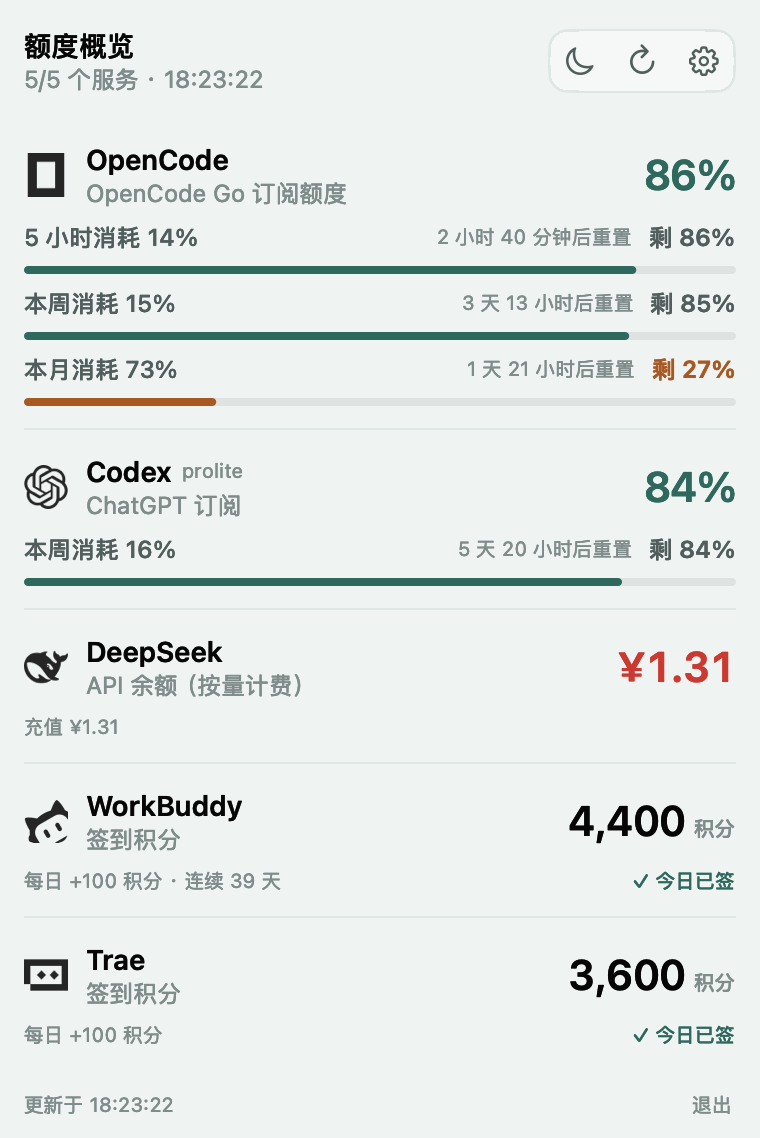
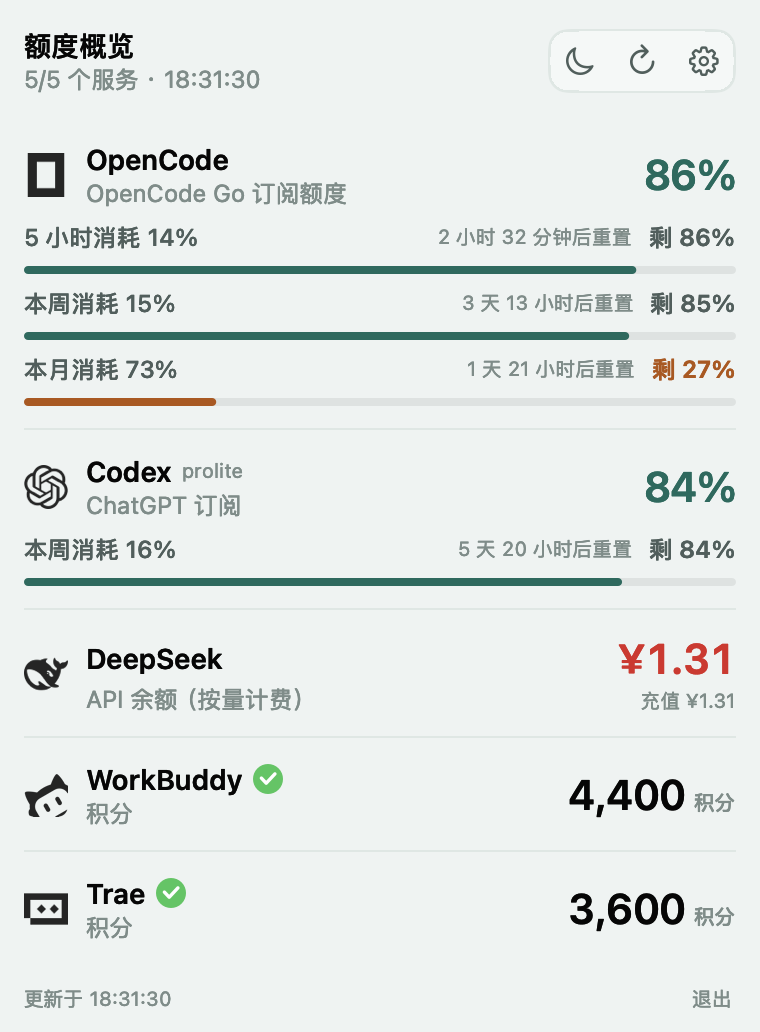
Balance credit card layout and compact check-in status

diff --git a/Sources/AgentQuotaBar/PopoverViewController.swift b/Sources/AgentQuotaBar/PopoverViewController.swift
@@ -414,6 +414,46 @@ final class QuotaPopoverViewController: NSViewController {
 
 // MARK: - 单行
 
+/// 实心绿色圆圈 + 白色对勾：用于 WorkBuddy / Trae 今日已签到。
+final class CheckinBadgeView: NSView {
+    override var intrinsicContentSize: NSSize { NSSize(width: 15, height: 15) }
+
+    override init(frame frameRect: NSRect) {
+        super.init(frame: frameRect)
+        setAccessibilityElement(true)
+        setAccessibilityRole(.image)
+        setAccessibilityLabel("今日已签到")
+    }
+
+    required init?(coder: NSCoder) {
+        fatalError("init(coder:) has not been implemented")
+    }
+
+    override func draw(_ dirtyRect: NSRect) {
+        let diameter = min(bounds.width, bounds.height)
+        let circle = NSBezierPath(ovalIn: NSRect(x: 0, y: (bounds.height - diameter) / 2,
+                                                 width: diameter, height: diameter))
+        // 签到标记用真正的绿色；Theme.success 是品牌青色，容易被看成蓝绿色。
+        NSColor.systemGreen.setFill()
+        circle.fill()
+
+        let check = NSBezierPath()
+        check.lineWidth = 1.7
+        check.lineCapStyle = .round
+        check.lineJoinStyle = .round
+        check.move(to: NSPoint(x: diameter * 0.28, y: diameter * 0.53))
+        check.line(to: NSPoint(x: diameter * 0.44, y: diameter * 0.36))
+        check.line(to: NSPoint(x: diameter * 0.73, y: diameter * 0.67))
+        NSColor.white.setStroke()
+        check.stroke()
+    }
+
+    override func viewDidChangeEffectiveAppearance() {
+        super.viewDidChangeEffectiveAppearance()
+        needsDisplay = true
+    }
+}
+
 final class ProviderRowView: NSView {
     let providerID: String
     private let provider: ProviderStatus
@@ -474,6 +514,19 @@ final class ProviderRowView: NSView {
         if let plan = provider.plan, !plan.isEmpty {
             nameRow.addArrangedSubview(label(plan, size: 10, color: Theme.tertiary))
         }
+        if provider.id == "trae" || provider.id == "workbuddy" {
+            if checkinDone {
+                nameRow.addArrangedSubview(CheckinBadgeView())
+            } else {
+                let checkin = NSButton(title: "签到", target: self, action: #selector(checkinTapped))
+                checkin.isBordered = false
+                checkin.bezelStyle = .inline
+                checkin.font = .systemFont(ofSize: 10.5, weight: .medium)
+                checkin.contentTintColor = Theme.accent
+                checkin.setAccessibilityLabel("签到 \(style.shortName)")
+                nameRow.addArrangedSubview(checkin)
+            }
+        }
         if provider.status == "warn" && isExhausted(provider) {
             nameRow.addArrangedSubview(label("已用尽", size: 10, weight: .medium, color: .systemRed))
         }
@@ -516,6 +569,17 @@ final class ProviderRowView: NSView {
         valueStack.addArrangedSubview(valueRow)
         if let captionText = valueCaption(provider, todaySpent: todaySpent), !captionText.isEmpty {
             let caption = label(captionText, size: 10, color: Theme.secondary)
+            caption.alignment = .right
+            valueStack.addArrangedSubview(caption)
+        }
+
+        if valueCaption(provider, todaySpent: todaySpent) == nil,
+           provider.id == "deepseek",
+           let supporting = compactDetail(
+               provider.metrics.first(where: { $0.kind == "credit" })?.detail
+               ?? provider.metrics.first(where: { $0.kind == "text" })?.detail
+           ) {
+            let caption = label(supporting, size: 10, color: Theme.tertiary)
             caption.alignment = .right
             valueStack.addArrangedSubview(caption)
         }
@@ -566,32 +630,8 @@ final class ProviderRowView: NSView {
             bar.widthAnchor.constraint(equalTo: stack.widthAnchor).isActive = true
         }
 
-        if provider.id == "trae" || provider.id == "workbuddy" {
-            var detail = "每日 +100 积分"
-            if provider.id == "workbuddy" && checkinStreak > 0 {
-                detail += " · 连续 \(checkinStreak) 天"
-            }
-            let checkinRow = NSStackView()
-            checkinRow.orientation = .horizontal
-            checkinRow.alignment = .centerY
-            checkinRow.spacing = 8
-            checkinRow.addArrangedSubview(label(detail, size: 10, color: Theme.tertiary))
-            let checkinSpacer = NSView()
-            checkinSpacer.setContentHuggingPriority(NSLayoutConstraint.Priority(1), for: .horizontal)
-            checkinRow.addArrangedSubview(checkinSpacer)
-            if checkinDone {
-                checkinRow.addArrangedSubview(label("✓ 今日已签", size: 10, weight: .medium, color: QuotaStyle.healthyColor))
-            } else {
-                let button = NSButton(title: "签到", target: self, action: #selector(checkinTapped))
-                button.isBordered = false
-                button.bezelStyle = .inline
-                button.font = .systemFont(ofSize: 10, weight: .medium)
-                button.contentTintColor = Theme.accent
-                checkinRow.addArrangedSubview(button)
-            }
-            stack.addArrangedSubview(checkinRow)
-            checkinRow.widthAnchor.constraint(equalTo: stack.widthAnchor).isActive = true
-        } else if let supporting = compactDetail(
+        if !["deepseek", "trae", "workbuddy"].contains(provider.id),
+           let supporting = compactDetail(
                     provider.metrics.first(where: { $0.kind == "credit" })?.detail
                     ?? provider.metrics.first(where: { $0.kind == "text" })?.detail
                   ) {
@@ -710,7 +750,7 @@ final class ProviderRowView: NSView {
     private func subtitle(for provider: ProviderStatus) -> String {
         switch provider.status {
         case "ok", "warn":
-            if provider.id == "trae" || provider.id == "workbuddy" { return "签到积分" }
+            if provider.id == "trae" || provider.id == "workbuddy" { return "积分" }
             if provider.id == "codex" { return "ChatGPT 订阅" }
             if provider.id == "deepseek" { return "API 余额（按量计费）" }
             return provider.detail ?? "已连接"
